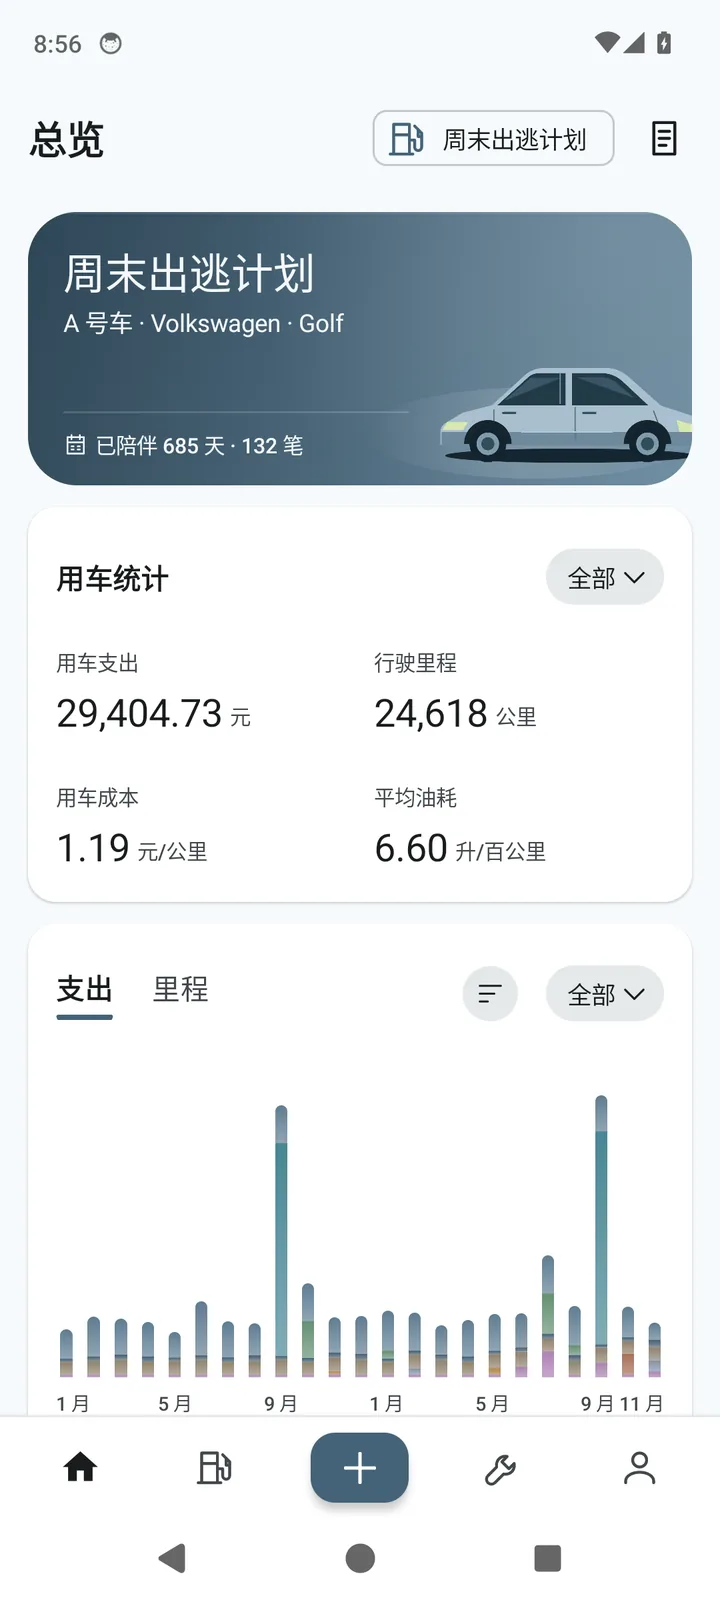
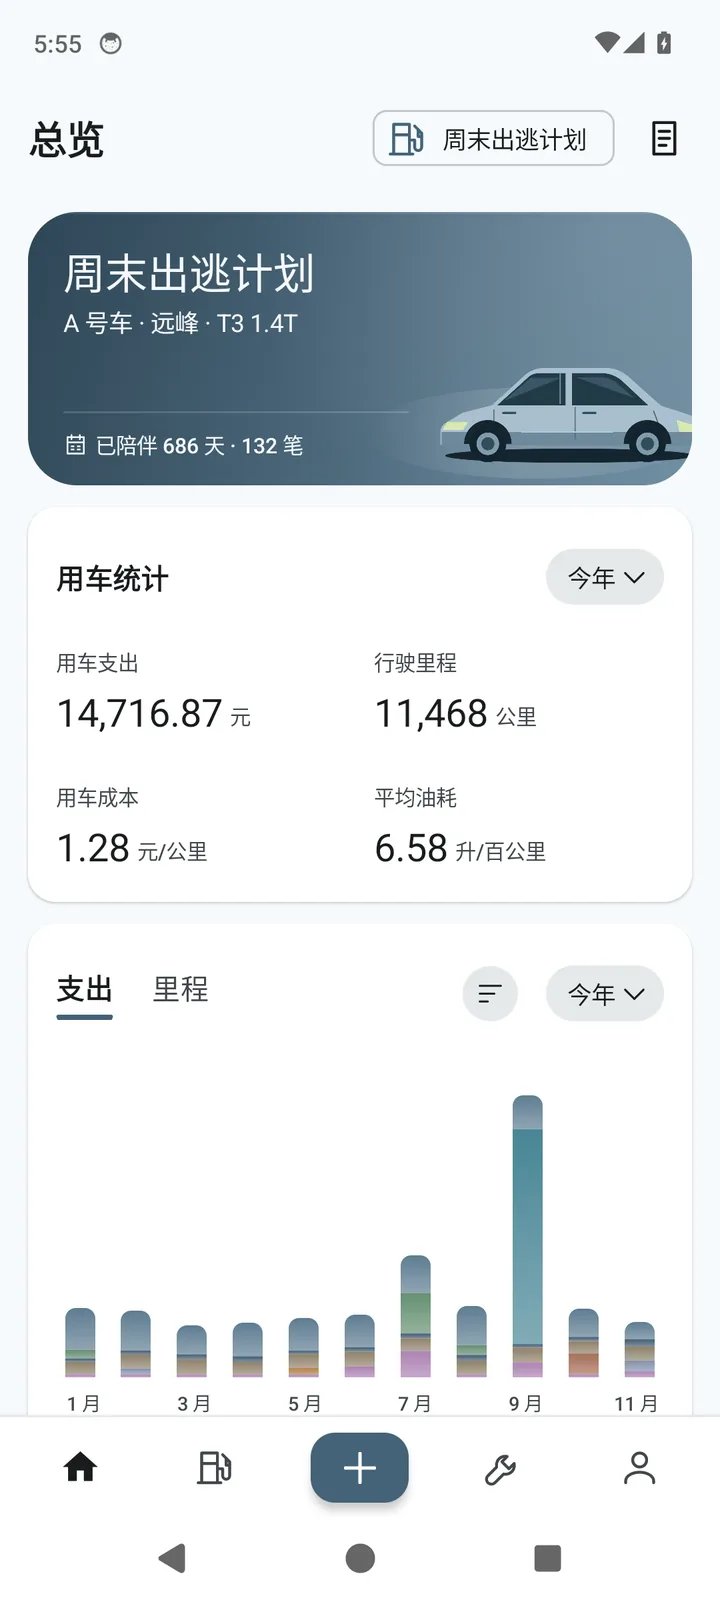
site(截图): 换 rc6 实拍，七张图一张不重复，筛选统一今年
- 中英各 7 张：总览 / 用车报告 / 油耗 / 记一笔 / 保养 / 车库总览（1080×2400 整屏）+ 分享海报（1080×1440）
- 首屏用总览 + 报告；预览四张改为油耗 / 记一笔 / 保养 / 车库总览；下载区改用分享海报，页面再无重复图
- 总览「用车统计 / 支出」与油耗「概览 / 走势」四个筛选都选今年（2026），不出现「全部」
- OG 图按 rc6 新版总览重画，标题同步为「Android 用车小助手」
- 图片缓存串升到 20261117

diff --git a/en/index.html b/en/index.html
@@ -53,7 +53,7 @@
   <link rel="icon" href="../assets/favicon-16.png" sizes="16x16" type="image/png">
   <link rel="apple-touch-icon" href="../assets/apple-touch-icon.png">
   <link rel="manifest" href="../site.webmanifest">
-  <link rel="preload" as="image" href="../assets/screens-en/dashboard.webp?v=20261116">
+  <link rel="preload" as="image" href="../assets/screens-en/dashboard.webp?v=20261117">
   <link rel="stylesheet" href="../assets/style.css?v=20261117b">
 
   <script type="application/ld+json">
@@ -130,10 +130,10 @@
           <div class="stage">
             <span class="stage-glow" aria-hidden="true"></span>
             <figure class="shot shot-back">
-              <img src="../assets/screens-en/report.webp?v=20261116" width="720" height="1600" alt="" aria-hidden="true">
+              <img src="../assets/screens-en/report.webp?v=20261117" width="720" height="1600" alt="" aria-hidden="true">
             </figure>
             <figure class="shot shot-main">
-              <img src="../assets/screens-en/dashboard.webp?v=20261116" width="720" height="1600" alt="MileNote overview screen with running costs, spending trend and average fuel economy">
+              <img src="../assets/screens-en/dashboard.webp?v=20261117" width="720" height="1600" alt="MileNote overview screen with running costs, spending trend and average fuel economy">
             </figure>
           </div>
         </div>
@@ -196,26 +196,26 @@
         <ul class="gallery">
           <li data-reveal style="--i:0">
             <figure>
-              <div class="shot"><img src="../assets/screens-en/fuel.webp?v=20261116" width="720" height="1600" alt="MileNote fuel and energy screen with average consumption and fill-up history"></div>
+              <div class="shot"><img src="../assets/screens-en/fuel.webp?v=20261117" width="720" height="1600" alt="MileNote fuel and energy screen with this year’s average consumption and trend"></div>
               <figcaption>Fuel &amp; energy</figcaption>
             </figure>
           </li>
           <li data-reveal style="--i:1">
             <figure>
-              <div class="shot"><img src="../assets/screens-en/editor.webp?v=20261116" width="720" height="1600" alt="MileNote quick entry screen with amount, category and odometer fields"></div>
+              <div class="shot"><img src="../assets/screens-en/editor.webp?v=20261117" width="720" height="1600" alt="MileNote quick entry screen with amount, date, odometer and fuel volume"></div>
               <figcaption>Quick entry</figcaption>
             </figure>
           </li>
           <li data-reveal style="--i:2">
             <figure>
-              <div class="shot"><img src="../assets/screens-en/report.webp?v=20261116" width="720" height="1600" alt="MileNote vehicle report screen with monthly comparison and cost breakdown"></div>
-              <figcaption>Vehicle report</figcaption>
+              <div class="shot"><img src="../assets/screens-en/maintenance.webp?v=20261117" width="720" height="1600" alt="MileNote service screen with to-dos, due status and log buttons"></div>
+              <figcaption>Maintenance</figcaption>
             </figure>
           </li>
           <li data-reveal style="--i:3">
             <figure>
-              <div class="shot"><img src="../assets/screens-en/maintenance.webp?v=20261116" width="720" height="1600" alt="MileNote maintenance screen with service items and due reminders"></div>
-              <figcaption>Maintenance</figcaption>
+              <div class="shot"><img src="../assets/screens-en/garage.webp?v=20261117" width="720" height="1600" alt="MileNote garage overview comparing total spend and distance across three vehicles"></div>
+              <figcaption>Garage overview</figcaption>
             </figure>
           </li>
         </ul>
@@ -288,7 +288,7 @@
             <p class="cta-meta" data-release-version>Latest build on GitHub Releases</p>
           </div>
           <figure class="cta-shot" aria-hidden="true">
-            <img src="../assets/screens-en/fuel.webp?v=20261116" width="720" height="1600" alt="">
+            <img src="../assets/screens-en/poster.webp?v=20261117" width="720" height="960" alt="">
           </figure>
         </div>
       </div>

diff --git a/index.html b/index.html
@@ -53,7 +53,7 @@
   <link rel="icon" href="assets/favicon-16.png" sizes="16x16" type="image/png">
   <link rel="apple-touch-icon" href="assets/apple-touch-icon.png">
   <link rel="manifest" href="site.webmanifest">
-  <link rel="preload" as="image" href="assets/screens/dashboard.webp?v=20261116">
+  <link rel="preload" as="image" href="assets/screens/dashboard.webp?v=20261117">
   <link rel="stylesheet" href="assets/style.css?v=20261117b">
 
   <script type="application/ld+json">
@@ -130,10 +130,10 @@
           <div class="stage">
             <span class="stage-glow" aria-hidden="true"></span>
             <figure class="shot shot-back">
-              <img src="assets/screens/report.webp?v=20261116" width="720" height="1600" alt="" aria-hidden="true">
+              <img src="assets/screens/report.webp?v=20261117" width="720" height="1600" alt="" aria-hidden="true">
             </figure>
             <figure class="shot shot-main">
-              <img src="assets/screens/dashboard.webp?v=20261116" width="720" height="1600" alt="里程志「用车总览」界面：用车统计、支出趋势与平均油耗">
+              <img src="assets/screens/dashboard.webp?v=20261117" width="720" height="1600" alt="里程志「用车总览」界面：用车统计、支出趋势与平均油耗">
             </figure>
           </div>
         </div>
@@ -196,26 +196,26 @@
         <ul class="gallery">
           <li data-reveal style="--i:0">
             <figure>
-              <div class="shot"><img src="assets/screens/fuel.webp?v=20261116" width="720" height="1600" alt="里程志「油耗·能耗」界面：平均油耗与历次加油记录"></div>
+              <div class="shot"><img src="assets/screens/fuel.webp?v=20261117" width="720" height="1600" alt="里程志「油耗·能耗」界面：按今年统计的平均油耗与走势"></div>
               <figcaption>油耗·能耗</figcaption>
             </figure>
           </li>
           <li data-reveal style="--i:1">
             <figure>
-              <div class="shot"><img src="assets/screens/editor.webp?v=20261116" width="720" height="1600" alt="里程志「记一笔」界面：金额、分类与里程快速录入"></div>
+              <div class="shot"><img src="assets/screens/editor.webp?v=20261117" width="720" height="1600" alt="里程志「记一笔」界面：加油金额、日期、总里程与加油量快速录入"></div>
               <figcaption>快速记账</figcaption>
             </figure>
           </li>
           <li data-reveal style="--i:2">
             <figure>
-              <div class="shot"><img src="assets/screens/report.webp?v=20261116" width="720" height="1600" alt="里程志「用车报告」界面：月度支出对比与费用构成"></div>
-              <figcaption>用车报告</figcaption>
+              <div class="shot"><img src="assets/screens/maintenance.webp?v=20261117" width="720" height="1600" alt="里程志「保养」界面：保养项目、到期状态与记录入口"></div>
+              <figcaption>维修保养</figcaption>
             </figure>
           </li>
           <li data-reveal style="--i:3">
             <figure>
-              <div class="shot"><img src="assets/screens/maintenance.webp?v=20261116" width="720" height="1600" alt="里程志「保养」界面：保养项目与到期提醒"></div>
-              <figcaption>维修保养</figcaption>
+              <div class="shot"><img src="assets/screens/garage.webp?v=20261117" width="720" height="1600" alt="里程志「车库总览」界面：三辆车并列对比累计支出与里程"></div>
+              <figcaption>车库总览</figcaption>
             </figure>
           </li>
         </ul>
@@ -288,7 +288,7 @@
             <p class="cta-meta" data-release-version>最新版本见 GitHub Releases</p>
           </div>
           <figure class="cta-shot" aria-hidden="true">
-            <img src="assets/screens/fuel.webp?v=20261116" width="720" height="1600" alt="">
+            <img src="assets/screens/poster.webp?v=20261117" width="720" height="960" alt="">
           </figure>
         </div>
       </div>

diff --git a/assets/style.css b/assets/style.css
@@ -771,8 +771,8 @@ button { font: inherit; color: inherit; }
 .cta-shot {
   position: relative;
   z-index: 1;
-  width: clamp(140px, 15vw, 178px);
-  aspect-ratio: 720 / 1600;
+  width: clamp(150px, 16vw, 196px);
+  aspect-ratio: 3 / 4;
   margin: 0;
   overflow: hidden;
   border-radius: 24px;
